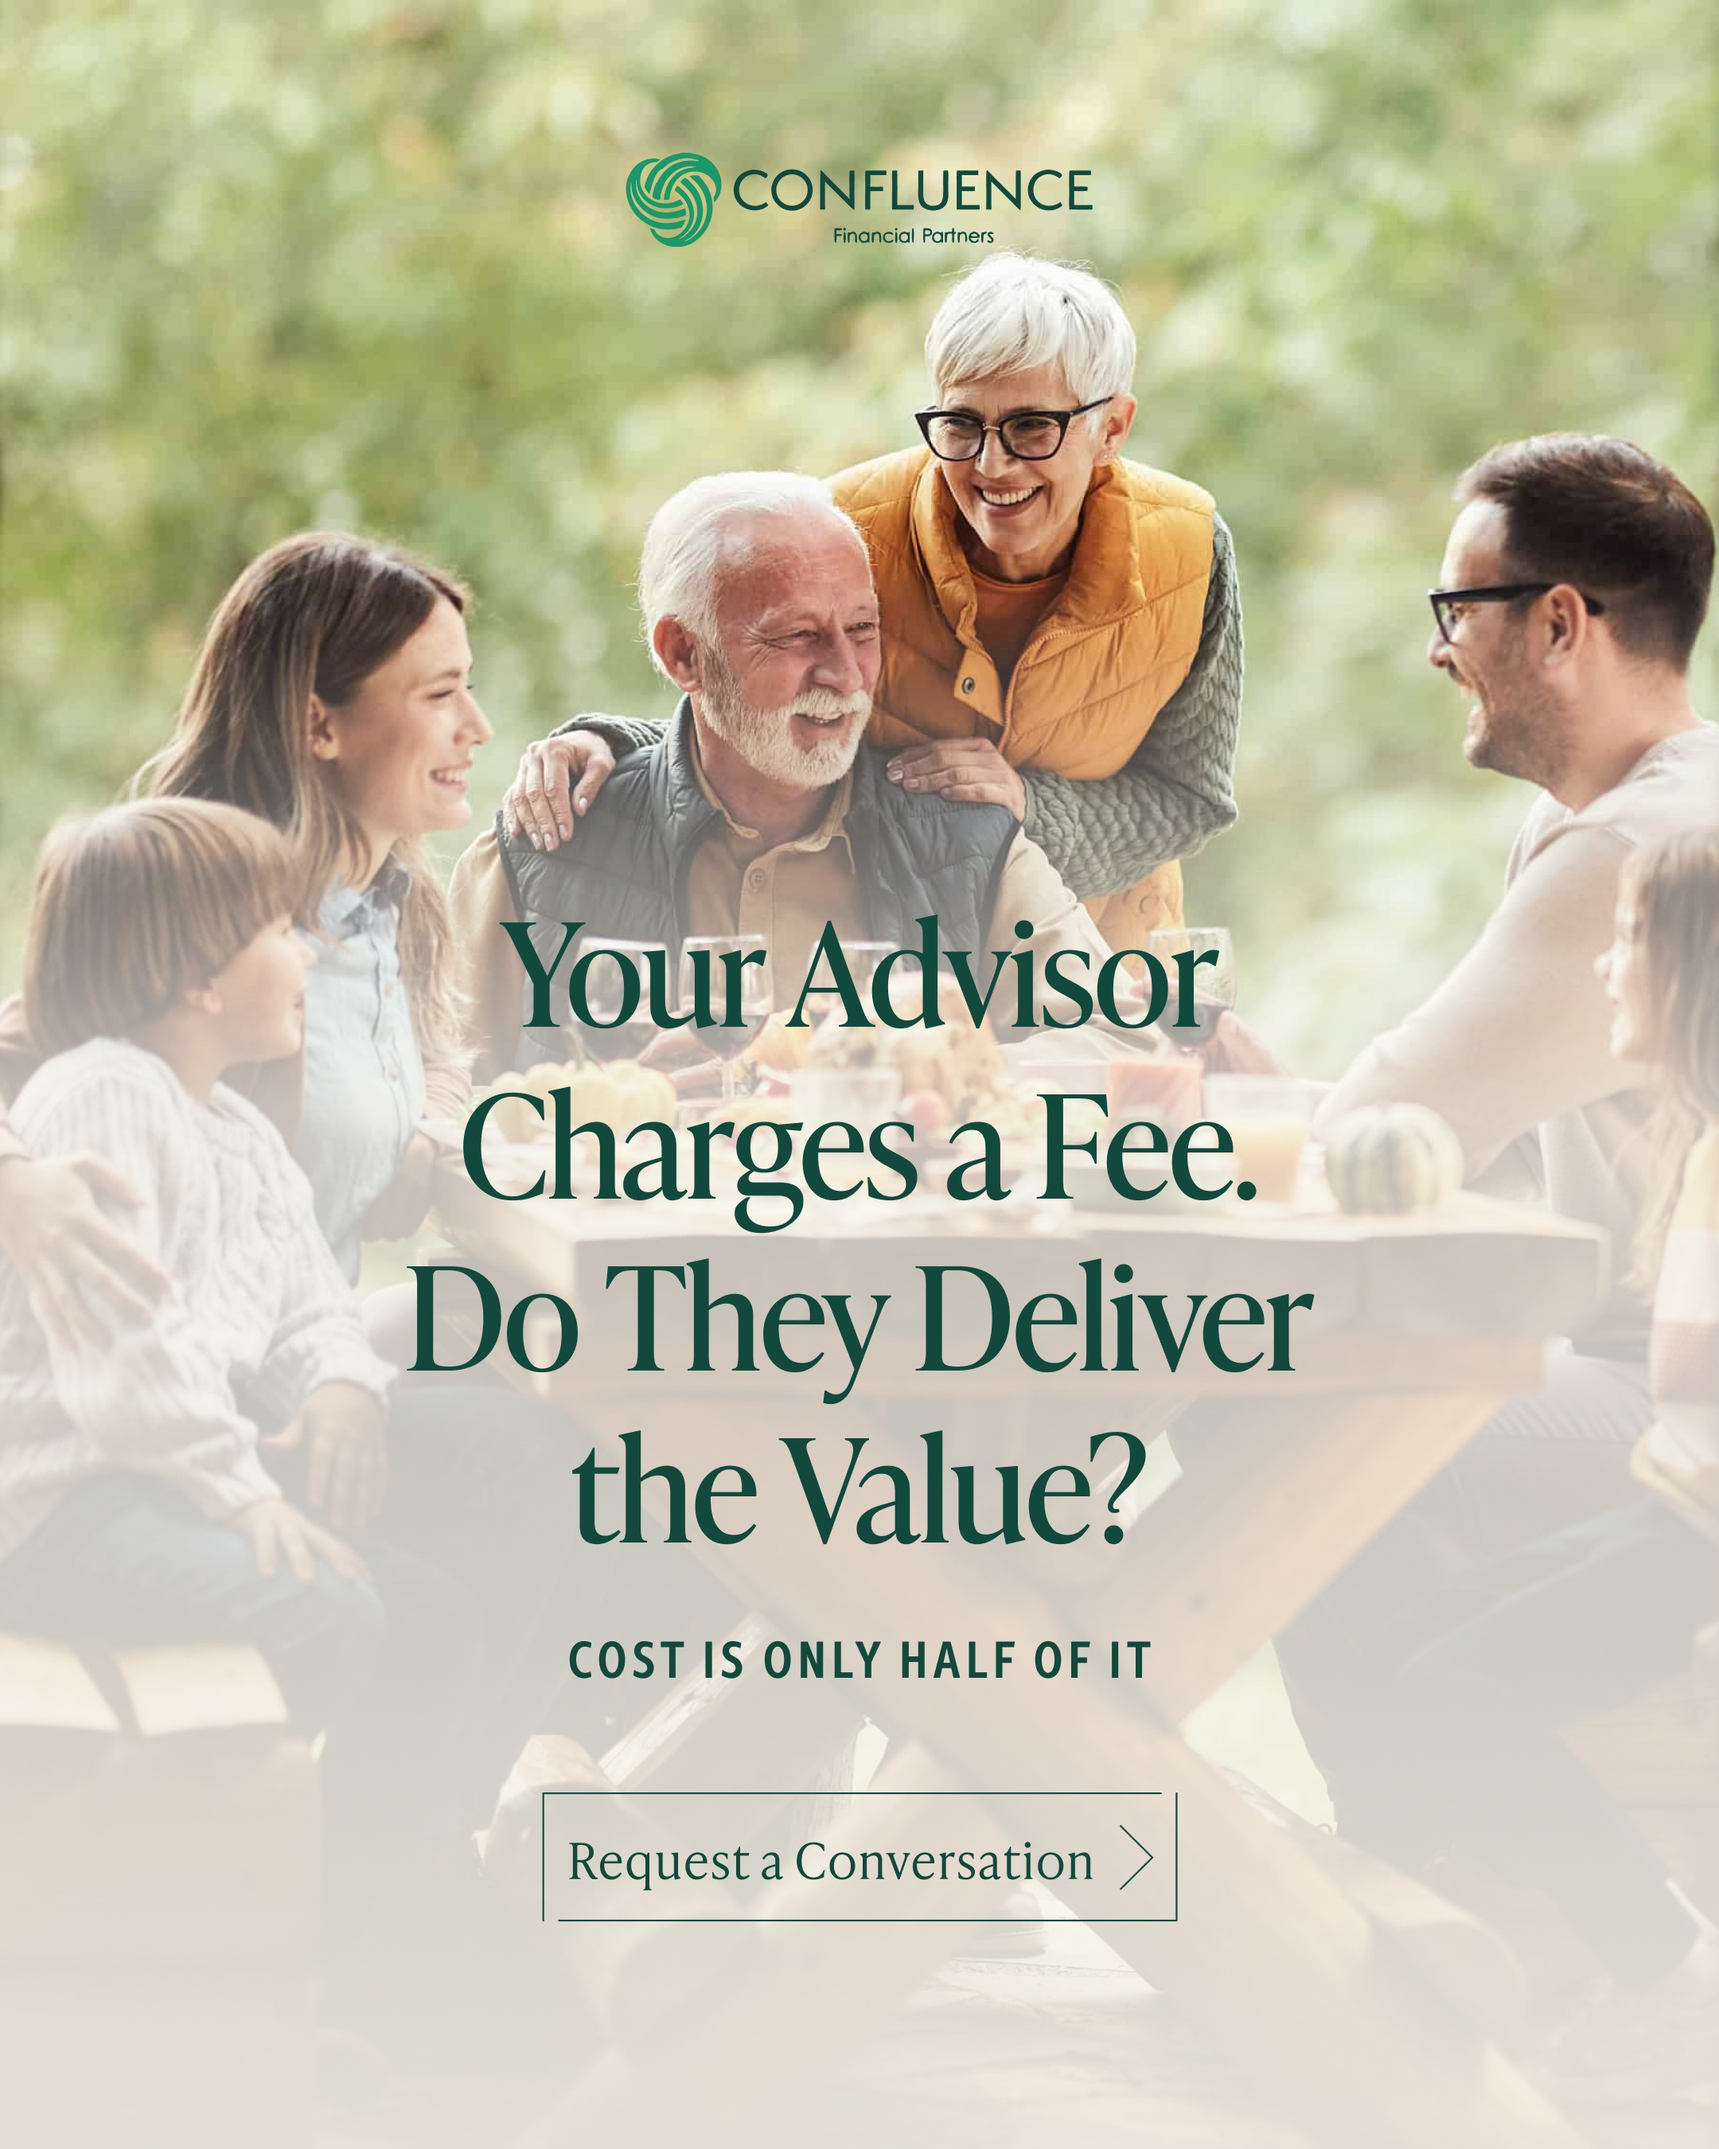
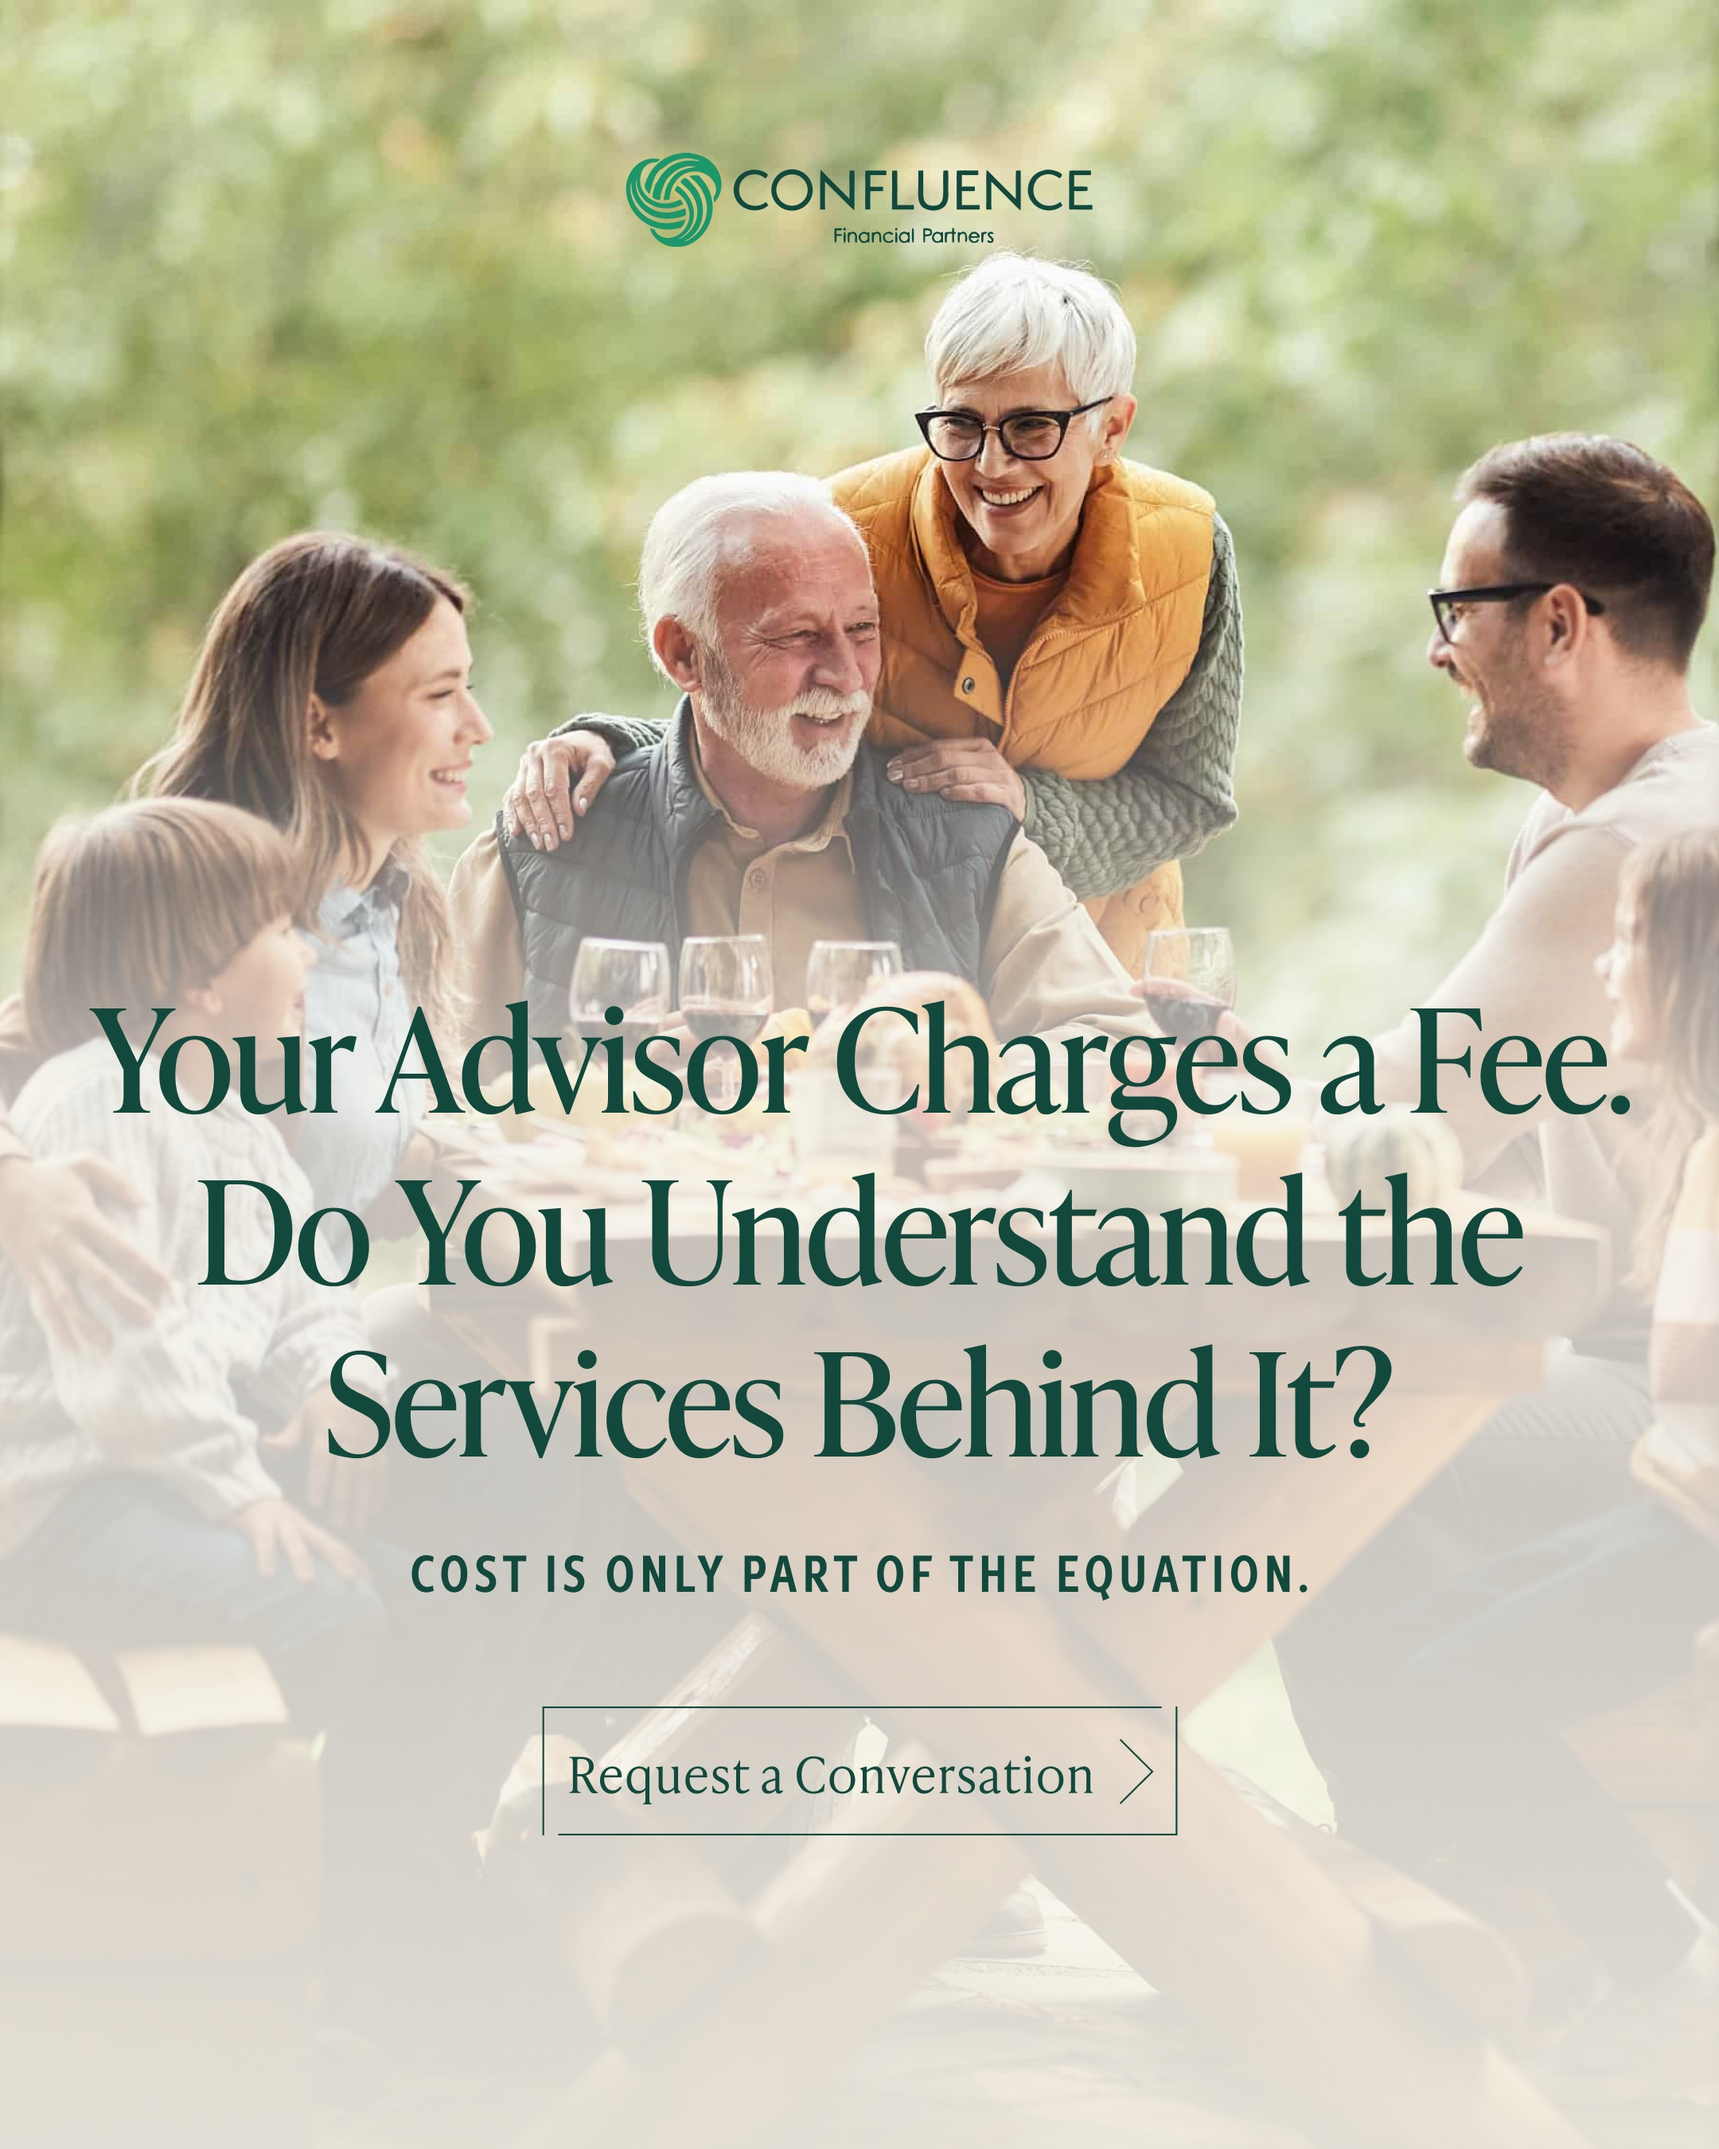
CFP vEdge: Ad 6 (Value) new creative -> ad7-value names (Katie edit); punchlist complete

Changed region(s): [[0.062, 0.4356, 0.9306, 0.7778], [0.3102, 0.8089, 0.6514, 0.9022]]

diff --git a/confluence-fp-consultation-vedge/index.html b/confluence-fp-consultation-vedge/index.html
@@ -1205,7 +1205,7 @@ let _activeImageVersion = {};
 let _placementIdx = {};
 let _feedbackCache = {};
 const CAMPAIGN_ID = 'confluence-fp-consultation-vedge';
-const ASSET_V = '1787333808';  // cache-bust token, stamped at bake time
+const ASSET_V = '1787334050';  // cache-bust token, stamped at bake time
 
 // ── Utility ────────────────────────────────────────────────────────────────
 function esc(s) {

diff --git a/confluence-fp-consultation-vedge/IMAGE-TEXT-PUNCHLIST.md b/confluence-fp-consultation-vedge/IMAGE-TEXT-PUNCHLIST.md
@@ -12,7 +12,7 @@ Source: `feedback` table, campaign `confluence-fp-consultation-vedge`.
 | 3 | Peace | headline: More Wealth. More Decisions. More Room for Mistakes? | headline → **"Does Your Plan Keep Up?"** | ✅ placed (output 98) |
 | 4 | Standard | (no comment) | — | ✓ |
 | 5 | Proactive | Is Your Financial Advisor Proactive or Reactive? / WHY WAIT TO BE ASKED | headline → **"Is Your Financial Advisor Helping You Prepare for What's Next?"** · sub → **"Financial planning is about more than responding to change."** | ⚠ placed (output 106) — **feed headline = new, STORY headline still "Proactive or Reactive?"** — story needs re-export to match |
-| 6 | Value | Your Advisor Charges a Fee. Do They Deliver the Value? / COST IS ONLY HALF OF IT | headline → **"Your Advisor Charges a Fee. Do You Understand the Services Behind It?"** · eyebrow → **"Cost Is Only Part of the Equation."** | ☐ |
+| 6 | Value | Your Advisor Charges a Fee. Do They Deliver the Value? / COST IS ONLY HALF OF IT | headline → **"Your Advisor Charges a Fee. Do You Understand the Services Behind It?"** · eyebrow → **"Cost Is Only Part of the Equation."** | ✅ placed (output 107) |
 | 7 | Communication | An Annual Financial Check-In Isn't a Relationship / ADVICE SHOULDN'T GO QUIET | eyebrow → **"Financial planning is an ongoing conversation."** | ✅ placed (output 99) |
 | 8 | Retirement | $5 Million Saved. Is It Enough for Your Retirement? / FROM BUILDING TO LIVING | on-image → **"$5 Million Saved. Is It Enough for the Retirement You Envision?"** · eyebrow → **"From building wealth to living from it."** · link-bar headline matched | ✅ placed (output 101) + link headline updated |
 | 9 | Legacy | A Legacy Without a Plan Is Just a Wish. / BY DESIGN, OR BY DEFAULT? | headline → **"A Legacy Takes More Than Assets Alone."** | ☐ |
